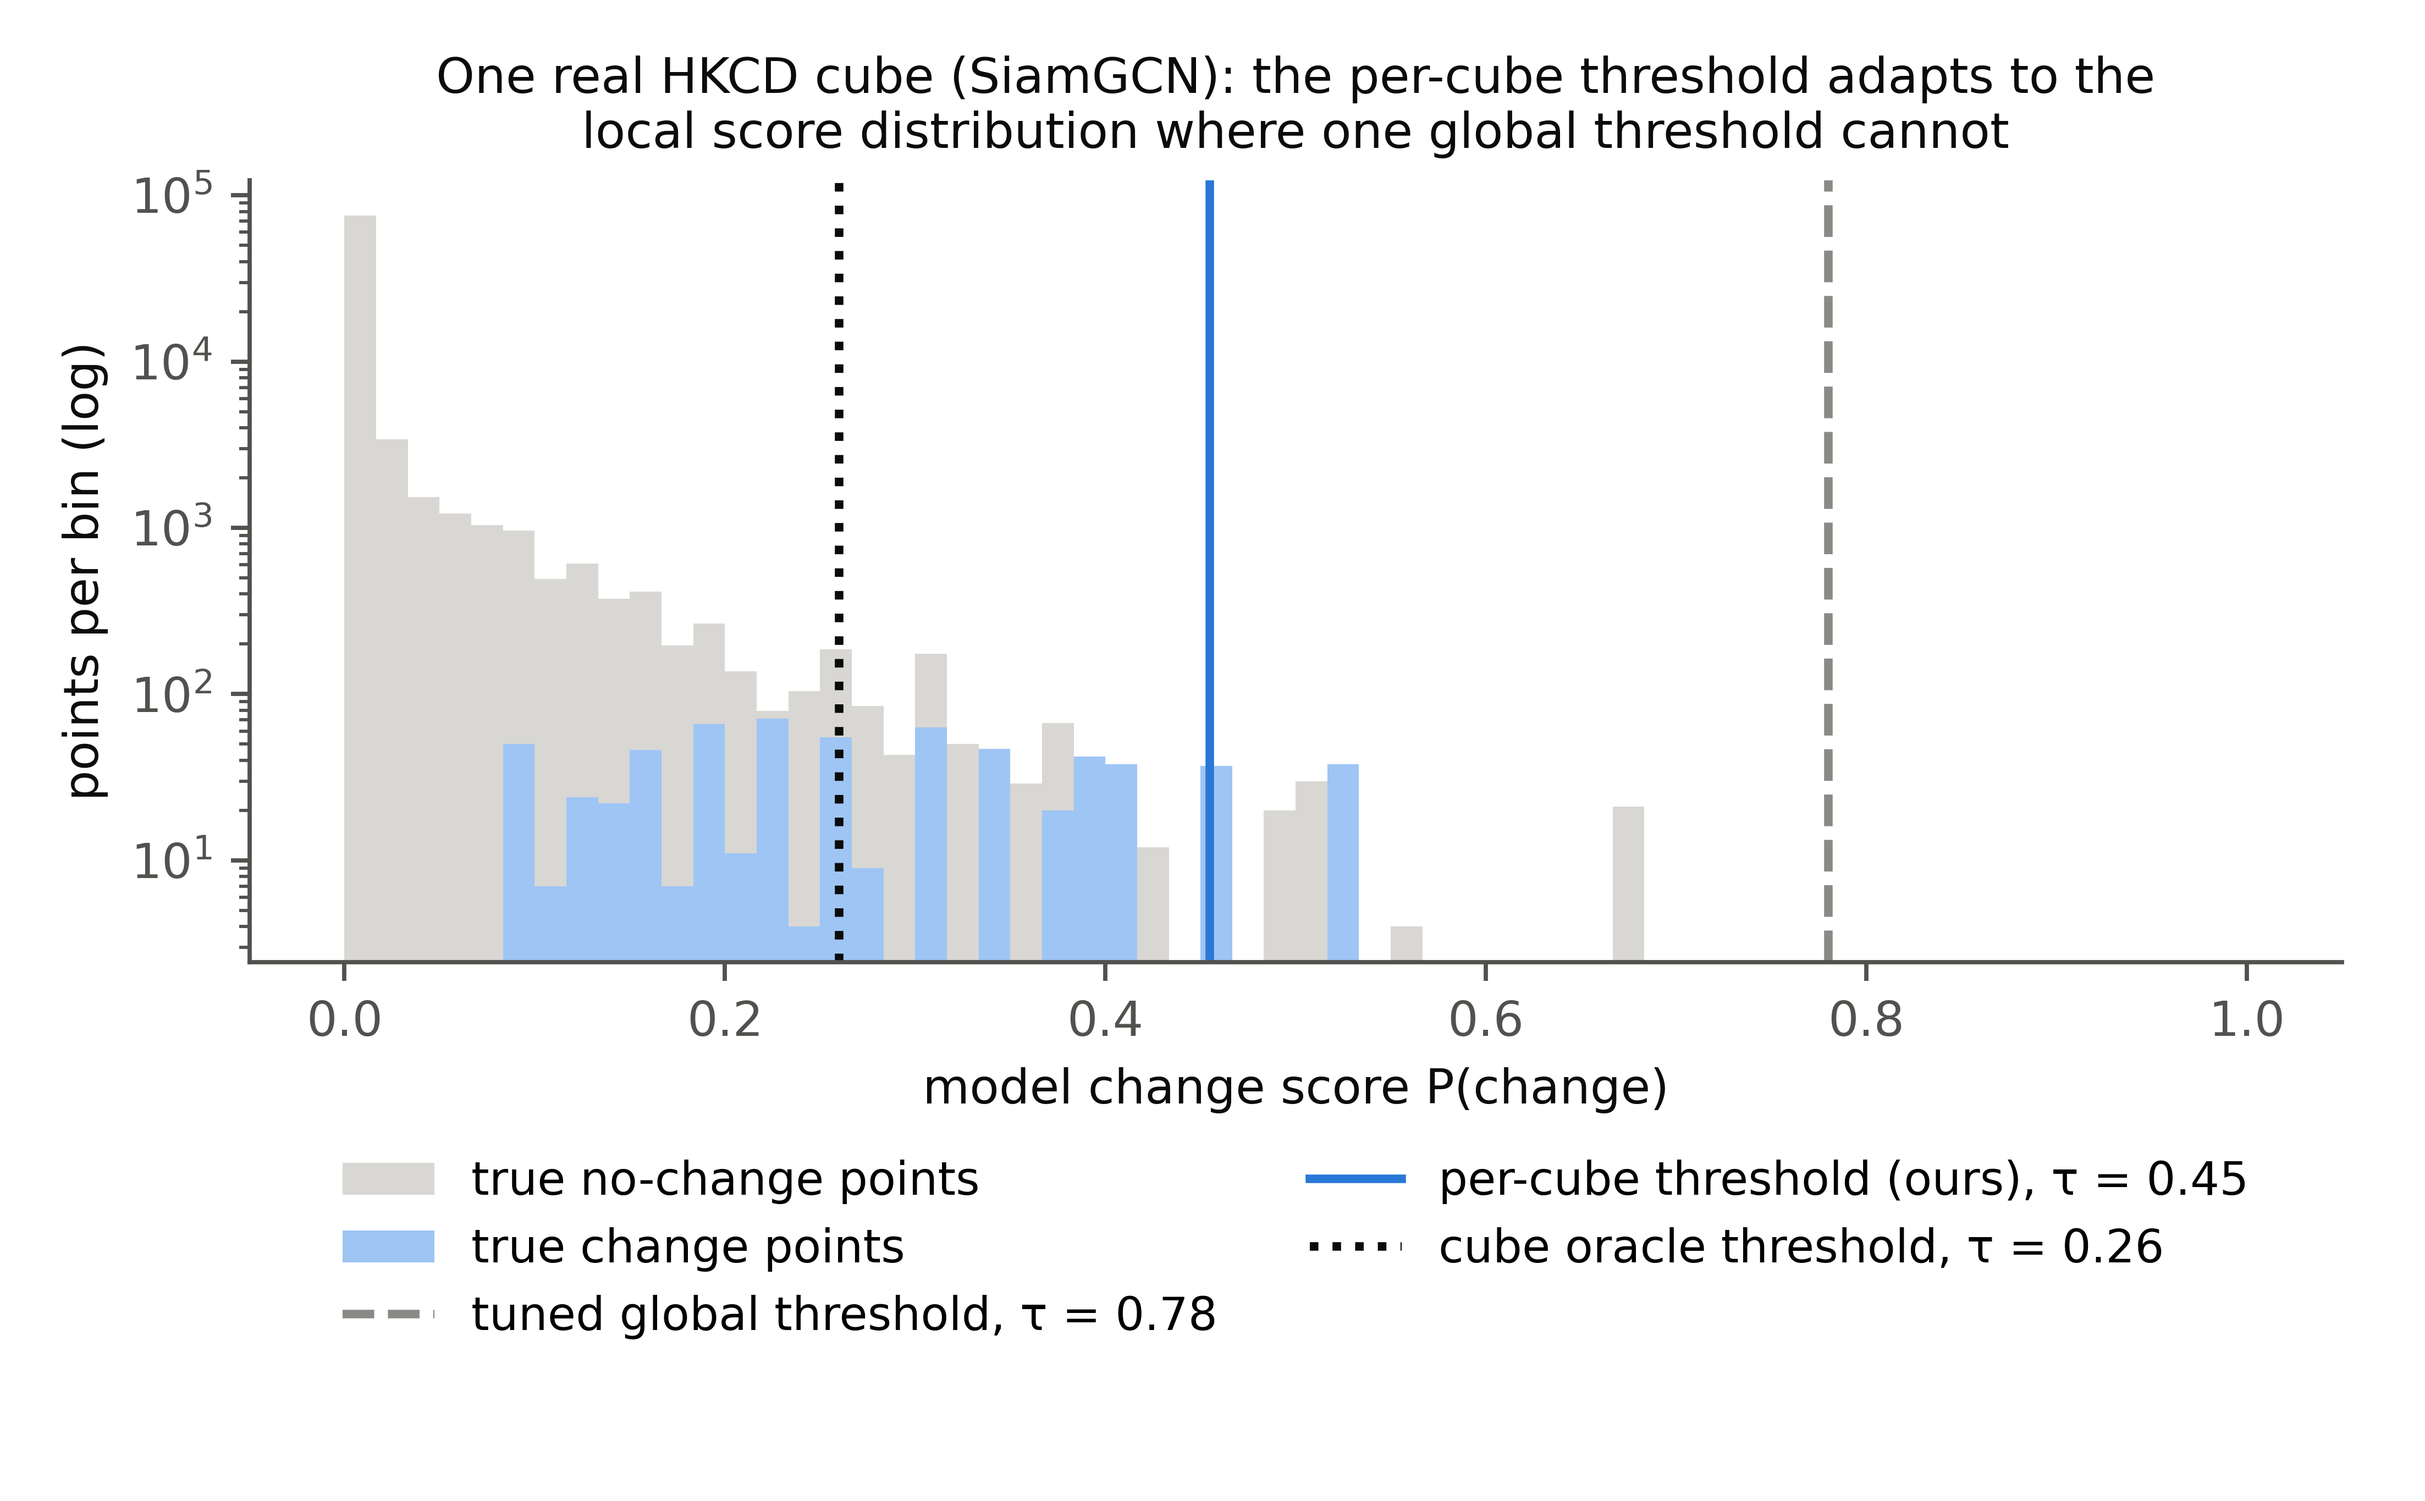
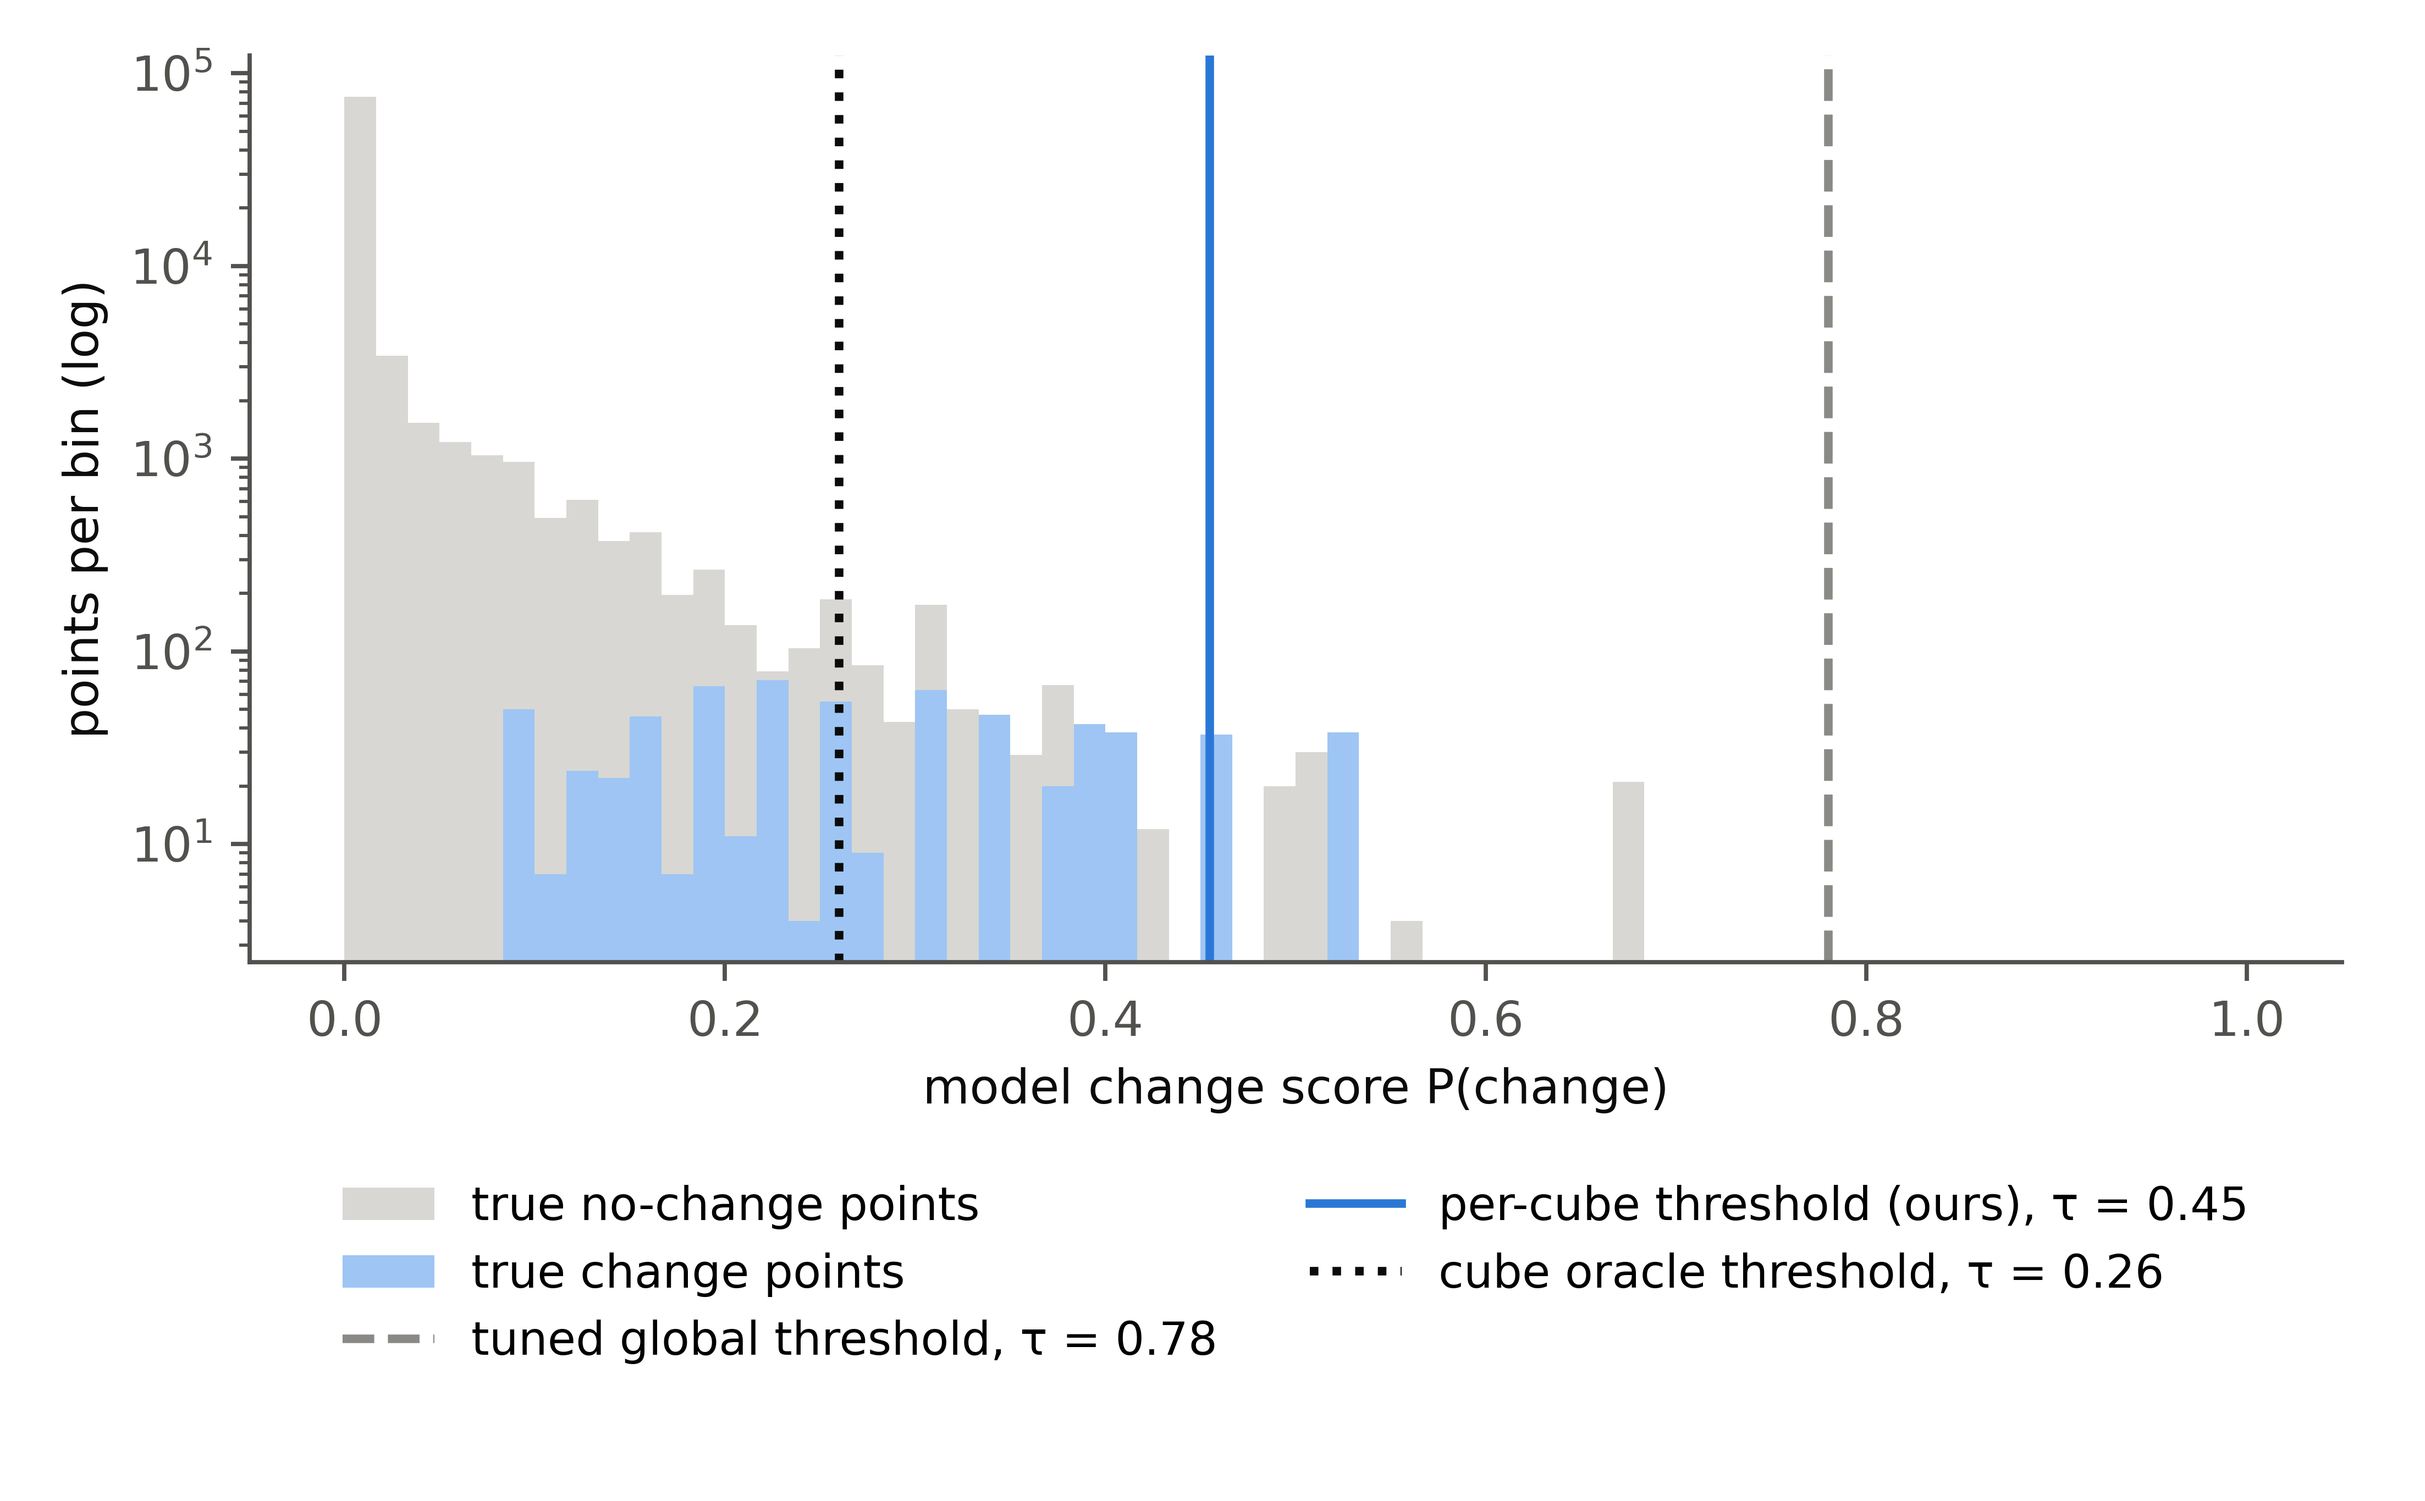
Remove titles inside figures (Springer artwork rule)
The Visual Computer asks for no titles or captions inside illustrations.
The figure titles of the forest plot (Fig. 4) and of the HKCD cube example
(Fig. 5) are removed, the two sentence-long row headers of the method sketch
(Fig. 2) are reduced to the panel letters, and the forest-plot x label is
wrapped onto two lines so it fits the figure width.

diff --git a/src/plot_method_concept.py b/src/plot_method_concept.py
@@ -199,10 +199,8 @@ def main():
     score_axis(ax, [(tau_i, r"$\tau_i$")], show_half=False)
     ax.set_title(r"4. offset $c$, threshold $\tau_i$, decision", fontsize=8)
 
-    fig.text(0.005, 0.965, r"(a) one shared threshold $\tau$ gives different local false-positive rates; "
-             r"one shared level $\alpha$ gives the same rate $1-\alpha$ in every cube", ha="left", va="center", fontsize=8.2)
-    fig.text(0.005, 0.455, r"(b) quantile-shrink for one cube: the threshold $\tau_i$ is read from the cube's own "
-             r"predicted no-change scores $N_i$, shrunk toward the scene, and offset by $c$", ha="left", va="center", fontsize=8.2)
+    fig.text(0.005, 0.965, "(a)", ha="left", va="center", fontsize=9, fontweight="bold")
+    fig.text(0.005, 0.455, "(b)", ha="left", va="center", fontsize=9, fontweight="bold")
     fig.legend(handles=[Patch(color=TEAL, alpha=0.85, label="truly unchanged points"),
                         Patch(color=CORAL, alpha=0.9, label="changed points / above threshold"),
                         Patch(color=GRAY_L, alpha=0.8, label=r"visible sample $N_i$ ($s_p \leq 1/2$, no labels)")],

diff --git a/src/plot_paper_v2.py b/src/plot_paper_v2.py
@@ -179,13 +179,9 @@ def fig_forest():
     ax.set_yticks(range(len(order)))
     ax.set_yticklabels(labels[::-1], fontsize=9.2)
     ax.set_ylim(-0.8, len(order) - 0.2)
-    ax.set_xlabel("change in test mean per-scene F1  (quantile-shrink minus tuned global threshold)",
+    ax.set_xlabel("change in test mean per-scene F1\n(quantile-shrink minus tuned global threshold)",
                   fontsize=9.6)
-    ax.set_title("Where per-cube calibration helps, and by how much\n"
-                 "colored = nominally significant at uncorrected p < 0.05 "
-                 "(paired bootstrap over test cubes);\n"
-                 "gray = indistinguishable from the tuned global threshold",
-                 fontsize=10.3, color=INK)
+    # No title inside the figure (Springer artwork rule); the caption carries it.
     ax.grid(axis="x", color=GRID, lw=0.7, zorder=0)
     ax.set_axisbelow(True)
     despine(ax)

diff --git a/src/plot_paper.py b/src/plot_paper.py
@@ -162,10 +162,7 @@ def fig_cube_example():
     ax.set_yscale("log")
     ax.set_xlabel("model change score P(change)")
     ax.set_ylabel("points per bin (log)")
-    ax.set_title("One real HKCD cube (%s): the per-cube threshold adapts to the\n"
-                 "local score distribution where one global threshold cannot"
-                 % {"siamgcn": "SiamGCN", "icp_euclidean": "ICP"}.get(model, model),
-                 fontsize=9.2, color=INK)
+    # No title inside the figure (Springer artwork rule); the caption carries it.
     ax.legend(frameon=False, fontsize=8.6, ncol=2, loc="upper center", bbox_to_anchor=(0.5, -0.2))
     despine(ax)
     fig.tight_layout()
